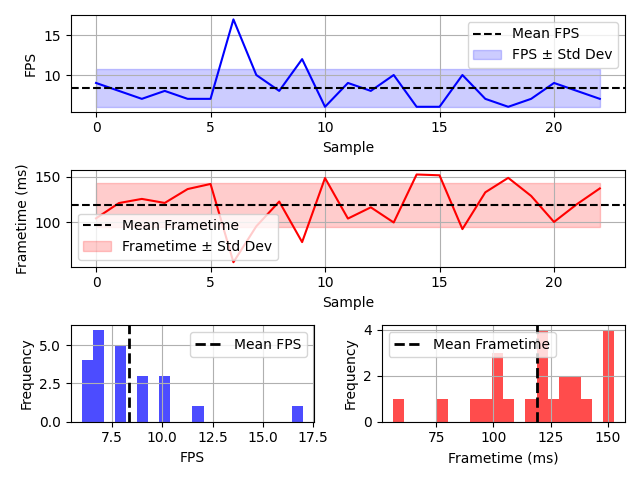
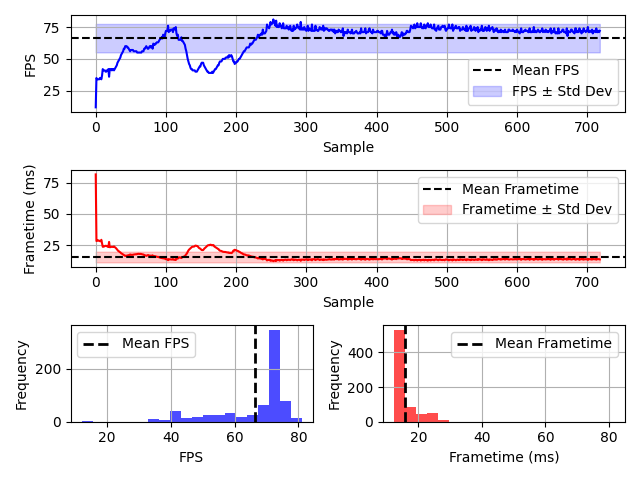
Data supersampling approach, pbr modification and small code tweaks

diff --git a/src/CLShader.cpp b/src/CLShader.cpp
@@ -120,8 +120,9 @@ CLShader::CLShader(RenderingContext * _context) : ComputeShader(_context){
     rayGenerationKernel.setArg(2, lightBuffer->buffer);
     rayGenerationKernel.setArg(3, accumulatorBuffer->buffer);
     rayGenerationKernel.setArg(4, depthBuffer->buffer);
-    rayGenerationKernel.setArg(5, sizeof(Camera), &context->camera);
-    rayGenerationKernel.setArg(6, sizeof(uint32_t), &context->frameCounter);
+    rayGenerationKernel.setArg(5, normalBuffer->buffer);
+    rayGenerationKernel.setArg(6, sizeof(Camera), &context->camera);
+    rayGenerationKernel.setArg(7, sizeof(uint32_t), &context->frameCounter);
 
     raytracingKernel.setArg(0, resources->buffer);
     raytracingKernel.setArg(1, rayBuffer->buffer);
@@ -156,8 +157,8 @@ CLShader::CLShader(RenderingContext * _context) : ComputeShader(_context){
 
 void CLShader::Render(Color * _pixels){
 
-    rayGenerationKernel.setArg(5, sizeof(Camera), &context->camera);
-    rayGenerationKernel.setArg(6, sizeof(uint32_t), &context->frameCounter);
+    rayGenerationKernel.setArg(6, sizeof(Camera), &context->camera);
+    rayGenerationKernel.setArg(7, sizeof(uint32_t), &context->frameCounter);
 
     raytracingKernel.setArg(7, sizeof(Camera), &context->camera);
     raytracingKernel.setArg(8, sizeof(uint32_t), &context->frameCounter);

diff --git a/src/Configurator.cpp b/src/Configurator.cpp
@@ -64,6 +64,7 @@ void Configurator::ShowHelp(){
     fprintf(stdout,"  -H              Show help menu\n");
     fprintf(stdout,"  -B              Build BVH tree\n");
     fprintf(stdout,"  -T <threads>    Set number of threads\n");
+    fprintf(stdout,"  -F <frames>     Set number of frames to render\n");
 
 }
 
@@ -112,6 +113,15 @@ void Configurator::ParseArgs(const size_t & size, char **args){
                 i++;
             } else {
                 fprintf(stderr, "Error: -T flag requires requires number of threads\n");
+                exit(-1);
+            }
+        }else if (arg[1] == 'F' && arg[2] == '\0') {
+            if (i + 1 < size && args[i + 1][0] != '-') {
+                context->numBoundedFrames = std::max(atoi(args[i+1]), 1);
+                context->boundedFrames = true;
+                i++;
+            } else {
+                fprintf(stderr, "Error: -F flag requires requires number of frames\n");
                 exit(-1);
             }
         }else if (arg[1] == 'S' && arg[2] == '\0' && context->memorySharing == false) {

diff --git a/src/PerformanceMonitor.cpp b/src/PerformanceMonitor.cpp
@@ -12,9 +12,6 @@ PerformanceMonitor::PerformanceMonitor(){
 
 void PerformanceMonitor::GatherInformation(){
 
-    if( timer->GetAccumulatedTime() < 1.0f)
-        return;
-
     PerformanceSample sample = {0};
 
     uint32_t frameCount = timer->GetFrameCount();
@@ -52,6 +49,7 @@ void PerformanceMonitor::CalculateVariance(){
     samplesCount = std::max((uint32_t)1, samplesCount);
 
     for(uint32_t id = 0; id < samples.size(); ++id){
+        
         float deltaFps =  ( statistics.mean.fpsCount - samples[id].fpsCount );
         float deltaFrametime =  ( statistics.mean.frameTime - samples[id].frameTime );
 

diff --git a/src/WindowManager.cpp b/src/WindowManager.cpp
@@ -24,7 +24,11 @@ WindowManager::WindowManager(RenderingContext * _context){
     glfwWindowHint(GLFW_COCOA_RETINA_FRAMEBUFFER, GLFW_FALSE);
     glfwWindowHint(GLFW_RESIZABLE, GLFW_FALSE);
 
-    window = glfwCreateWindow(context->width, context->height, "RayTracer", NULL, NULL);
+    float apsect = context->camera.aspectRatio;
+    int windowWidth = WINDOW_WIDTH;
+    int windowHeigth = WINDOW_HEIGHT * 1.0f/apsect;
+
+    window = glfwCreateWindow(windowWidth, windowHeigth, "RayTracer", NULL, NULL);
 
     if(!window){
         glfwTerminate();

diff --git a/src/RenderingContext.h b/src/RenderingContext.h
@@ -21,6 +21,7 @@ struct RenderingContext {
     bool vSync = false;
     bool memorySharing = false;
     bool bvhAcceleration = false;
+    bool boundedFrames = false;
 
     // Texture transfer object
     GLuint textureID;
@@ -40,6 +41,7 @@ struct RenderingContext {
     Camera camera;
     uint32_t frameCounter = 0;
 
+    uint32_t numBoundedFrames;
     uint32_t numThreads;
     float gamma = 2.2f;
 

diff --git a/resources/kernels/Intersections.h b/resources/kernels/Intersections.h
@@ -71,7 +71,7 @@ bool AABBIntersection(const struct Ray * ray, const float3 minimalPosition , con
     float tNear = fmax(t1.x, fmax(t1.y, t1.z));
     float tFar = fmin(t2.x, fmin(t2.y, t2.z));
 
-    return tNear <= tFar && tFar > 0.0f;
+    return tNear <= tFar && tFar >= 0.0f;
 }
 
 #endif

diff --git a/src/WindowManager.h b/src/WindowManager.h
@@ -2,6 +2,8 @@
 #define OPENGLRENDERER_H
 
 #define IMG_OUT "screenshot.bmp"
+#define WINDOW_WIDTH 1000
+#define WINDOW_HEIGHT 1000
 
 #include <stdio.h>
 #include <functional>

diff --git a/resources/kernels/KernelStructs.h b/resources/kernels/KernelStructs.h
@@ -54,6 +54,7 @@ struct Object{
 
 struct Sample{
     float3 point;
+    float len;
     int objectID;
 } __attribute((aligned(32)));
 
